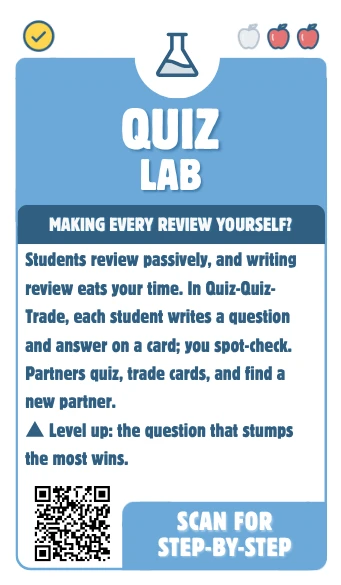
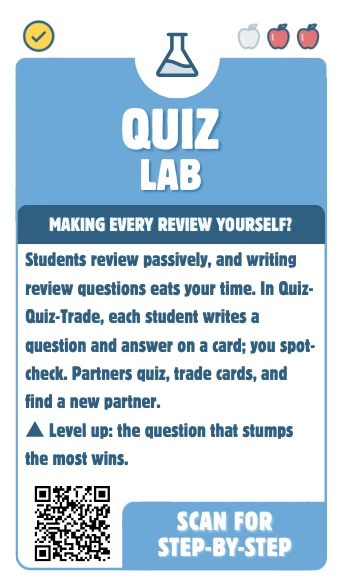
Refresh card images for eight edited cards
Fix This, Front No More, Ignite Bites, Quiz Lab, Reading Relay, Talk Less Do More, Teach Swap, Think Pair Rotate Share. Bumps sw.js cache version.

Claude-Session: https://claude.ai/code/session_01CtBnGfr3pVnPQYAA3ZBWTY

Changed region(s): [[0.0587, 0.4615, 0.9091, 0.7077]]

diff --git a/public/sw.js b/public/sw.js
@@ -1,5 +1,5 @@
 /* Lesson Shuffle offline support. Generated by build_sw.py; version changes when any file changes. */
-const V = 'ls-24484fa890';
+const V = 'ls-44035a2e71';
 const CORE = ["/", "/boards-up", "/brain-busters", "/change-my-mind", "/circle-up-check", "/concept-clash", "/culture-check", "/disrupt-detour", "/door-greeter", "/echo-and-elevate", "/every-hand-up", "/explicit-essentials", "/feedback-flow", "/fix-this", "/flash-back", "/flow-finder", "/focus-frame", "/front-no-more", "/glow-grow-go", "/goal-getter", "/growth-goals", "/hidden-hero", "/hook-line", "/how-to-play", "/ignite-bites", "/kudos-call", "/learning-walk", "/light-lift", "/map-it-out", "/meta-matters", "/move-and-speak", "/passing-connection", "/printables", "/pulse-check", "/question-storm", "/quiz-lab", "/reading-relay", "/reality-check", "/routine-refresh", "/seat-smart", "/seeds-of-insight", "/shuffle-practice", "/silent-signals", "/sketch-it", "/submit", "/talk-less-do-more", "/task-masters", "/teach-swap", "/ten-po-shift", "/text-talks", "/think-pair-rotate-share", "/udl-diy", "/visible-thinking", "/voice-and-choice", "/word-wise", "/write-first", "/print/answer-cards", "/print/brain-busters-sheet", "/print/clock-partners", "/print/concept-clash-organizer", "/print/connection-log", "/print/corner-signs", "/print/door-greeting-chart", "/print/echo-and-elevate-poster", "/print/feedback-flow-sheet", "/print/flash-back-sheet", "/print/focus-frame-check", "/print/get-to-know-you", "/print/glow-grow-go-slips", "/print/goal-getter-tracker", "/print/growth-goals-tracker", "/print/learning-walk-notes", "/print/meta-matters-reflection", "/print/mixed-practice-sheet", "/print/practice-check", "/print/question-storm-log", "/print/reading-relay-role-cards", "/print/reality-check-planner", "/print/see-think-wonder", "/print/seeds-of-insight-slips", "/print/task-masters-role-chart", "/print/teach-swap-note-catcher", "/print/text-talks-bookmarks", "/print/word-wise-organizer", "/print/write-first-sheet", "/print.css?v=3", "/style.css", "/site.js", "/logo.webp?v=2", "/favicon.png", "/manifest.webmanifest", "/icon-192.png", "/icon-512.png", "/fonts/days-one-latin-400-normal.woff2", "/fonts/rubik-latin-400-italic.woff2", "/fonts/rubik-latin-400-normal.woff2", "/fonts/rubik-latin-500-normal.woff2", "/fonts/rubik-latin-600-normal.woff2", "/fonts/rubik-latin-700-normal.woff2"];
 const IMGS = ["/cards/boards-up.webp", "/cards/brain-busters.webp", "/cards/change-my-mind.webp", "/cards/circle-up-check.webp", "/cards/concept-clash.webp", "/cards/culture-check.webp", "/cards/disrupt-detour.webp", "/cards/door-greeter.webp", "/cards/echo-and-elevate.webp", "/cards/every-hand-up.webp", "/cards/explicit-essentials.webp", "/cards/feedback-flow.webp", "/cards/fix-this.webp", "/cards/flash-back.webp", "/cards/flow-finder.webp", "/cards/focus-frame.webp", "/cards/front-no-more.webp", "/cards/glow-grow-go.webp", "/cards/goal-getter.webp", "/cards/growth-goals.webp", "/cards/hidden-hero.webp", "/cards/hook-line.webp", "/cards/ignite-bites.webp", "/cards/kudos-call.webp", "/cards/learning-walk.webp", "/cards/light-lift.webp", "/cards/map-it-out.webp", "/cards/meta-matters.webp", "/cards/move-and-speak.webp", "/cards/passing-connection.webp", "/cards/pulse-check.webp", "/cards/question-storm.webp", "/cards/quiz-lab.webp", "/cards/reading-relay.webp", "/cards/reality-check.webp", "/cards/routine-refresh.webp", "/cards/seat-smart.webp", "/cards/seeds-of-insight.webp", "/cards/shuffle-practice.webp", "/cards/silent-signals.webp", "/cards/sketch-it.webp", "/cards/talk-less-do-more.webp", "/cards/task-masters.webp", "/cards/teach-swap.webp", "/cards/ten-po-shift.webp", "/cards/text-talks.webp", "/cards/think-pair-rotate-share.webp", "/cards/udl-diy.webp", "/cards/visible-thinking.webp", "/cards/voice-and-choice.webp", "/cards/word-wise.webp", "/cards/write-first.webp"];
 self.addEventListener('install', e => {
